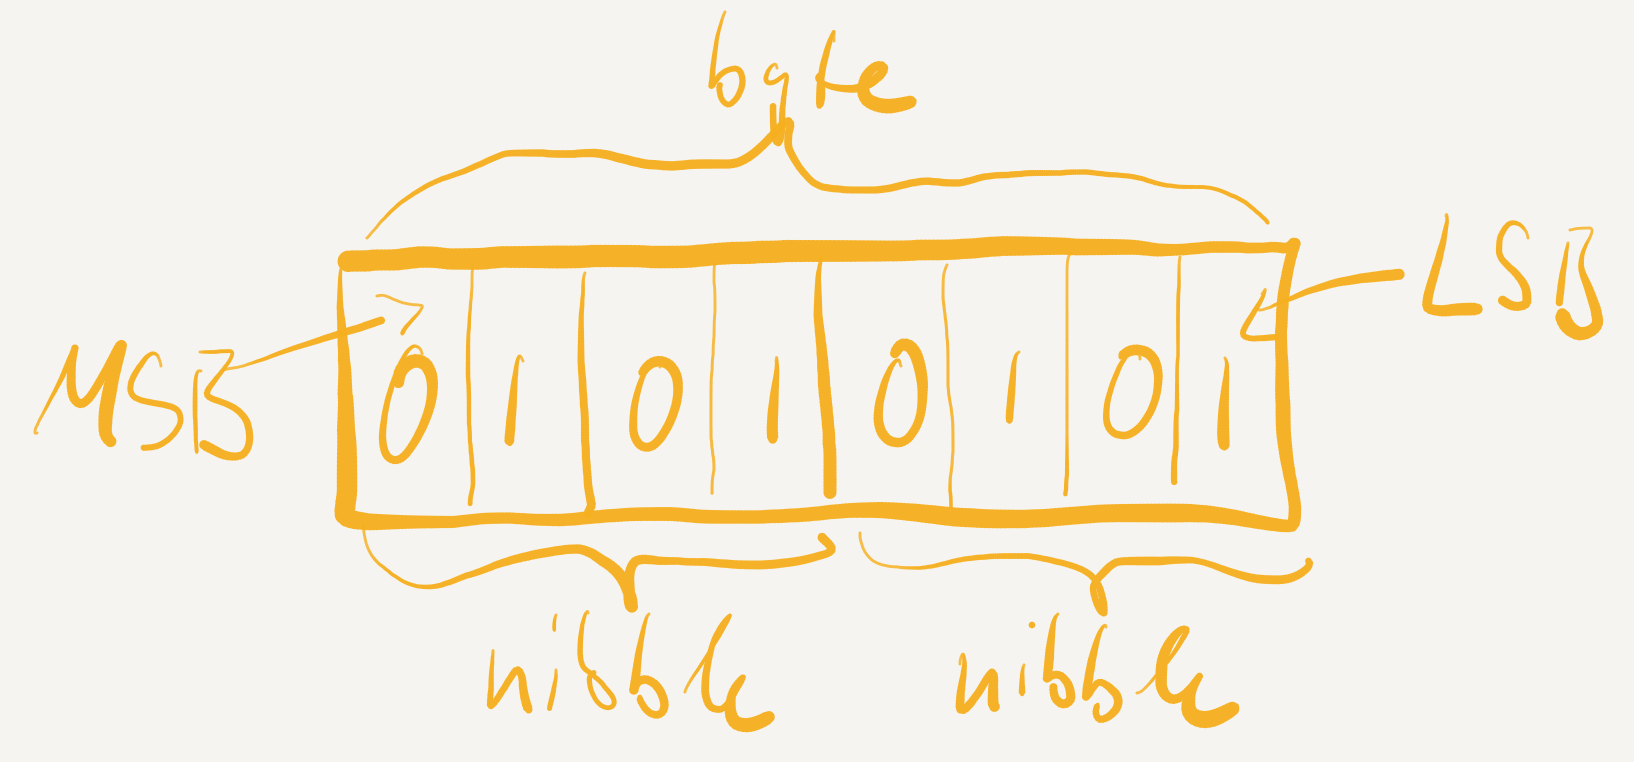
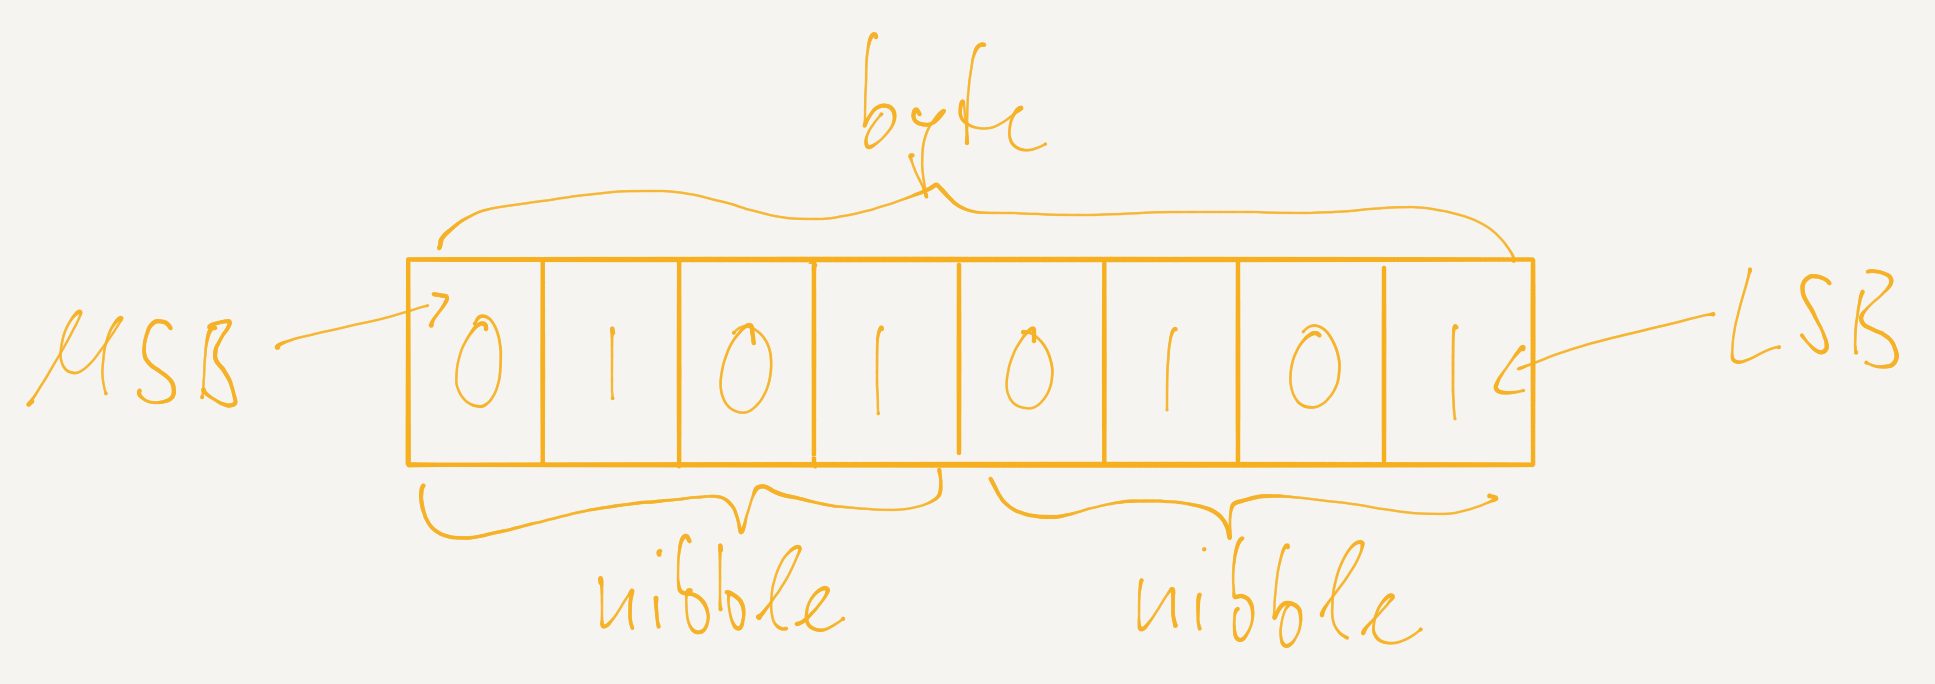
Adding memory figure, polished byte figure

Changed region(s): [[0.0312, 0.0307, 0.9988, 0.9825], [0.8427, 0.4605, 0.9051, 0.4912]]

diff --git a/book.md b/book.md
@@ -699,9 +699,11 @@ Suppose we use eight bits, that is, one byte to encode an address in binary. In 
 
 So, in addition to encoding unsigned and signed integers as well as characters in bits, we can encode pointers as memory addresses in unsigned integers. Who would have thought that unsigned integers can not only be used to represent quantities but also structural elements such as pointers, thanks to digital memory? However, properly using pointers and digital memory in general is a major topic in computer science and an important, non-trivial part of any type of coding effort. You might think that 8-bit address spaces are not a big deal, which is true, but today's reality are typically 32-bit and even 64-bit address spaces that feature billions of addresses, even on your smart phone!
 
-![Contiguous versus Non-Contiguous Memory](contiguous.png "Contiguous versus Non-Contiguous Memory")
+![Contiguous Memory](contiguous.png "Contiguous Memory")
 
 Let us take a closer look at how digital memory can in principle be used to store any type of information. The key question is where to do that in memory, in particular with information that does not fit into a single byte. There are essentially two different ways of answering that question which can also be combined. Suppose we need to store, say, eight bytes. We can either store each of the eight bytes somewhere in memory, not necessarily next to each other, that is, *non-contiguously*, or we store the eight bytes somewhere in memory but all next to each other, that is, in a *contiguous* block of memory.
+
+![Non-Contiguous Memory](non-contiguous.png "Non-Contiguous Memory")
 
 Both ways have advantages and disadvantages. Non-contiguous storing of information is great because it gives us freedom in where to store information. However, we still need to remember where each of the eight bytes is stored which may require pointers which in turn may need to be stored as well. Contiguous storing of information is also great because we only need to remember where the first of the eight bytes is stored. However, finding enough space that fits eight bytes in a row may be hard. Think of memory where every other byte is already taken. In that case, half of memory is still available but we still cannot store eight bytes in a row. This phenomenon is called *fragmentation*. You may have heard of the problem in the context of harddrives that need to be defragmented, for example. However, any type of digital memory has that problem if information is stored contiguously. We get back to the issue in more detail in the machine and programming chapters.
 
